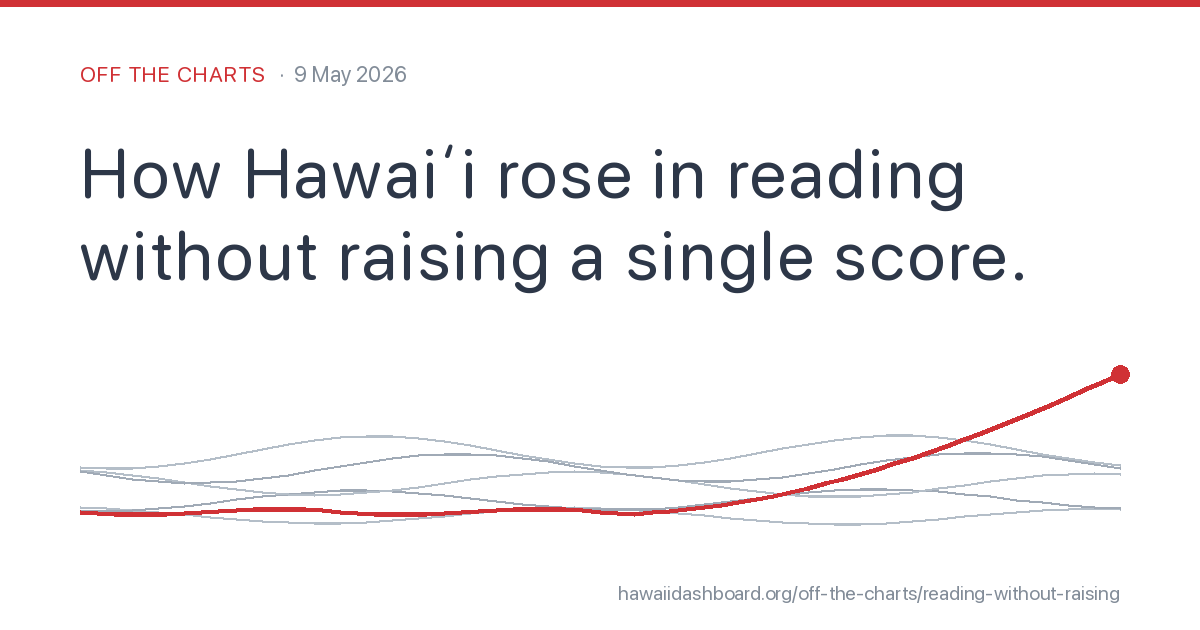
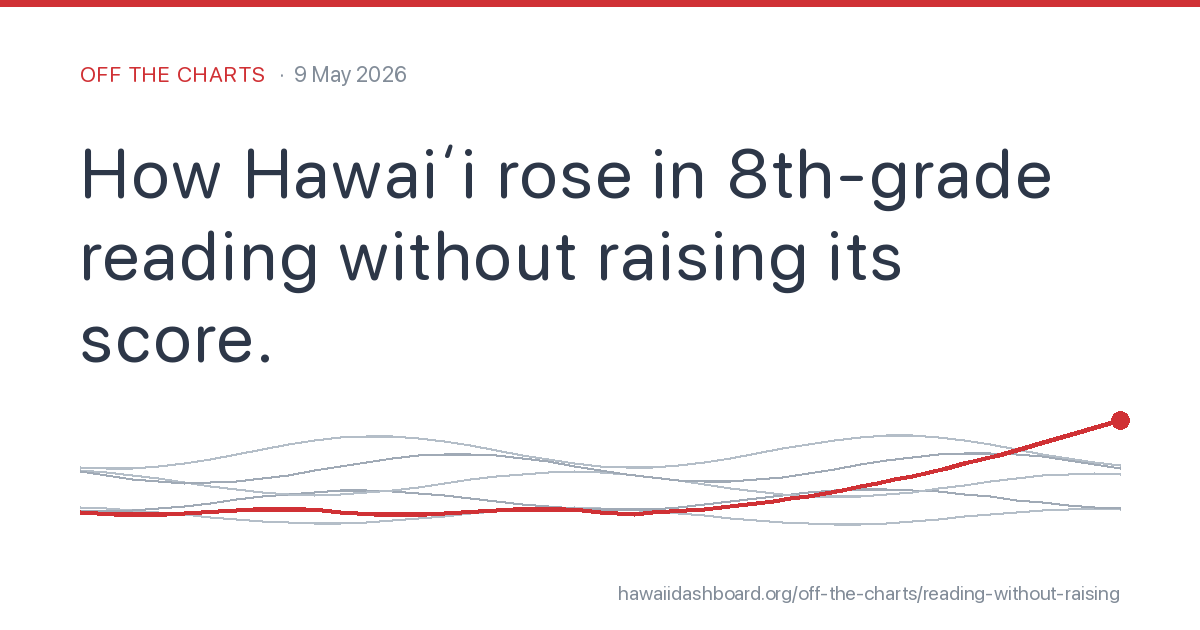
Off the Charts: rewrite reading-without-raising with sharper beats
User editorial pass. Title: "How Hawaiʻi rose in 8th-grade reading
without raising its score." (more specific than the original, drops
"a single"). Body restructured into shorter paragraph beats: the
mechanism reveal — "Hawaiʻi didn't surge. The country fell." — now
gets its own punch instead of being buried mid-paragraph. Closing
voice shifts to second-person address ("if you still think...").

Drops the pre-COVID-catch-up paragraph; the post now leans entirely
on the rank-rose-without-score-rose paradox + the COVID exception.
Three chart links preserved: rank chart on the opening claim, NCES
COVID source on "one of only three states," rank-history on "tied
with the US median."

Updated meta/OG/JSON-LD across the post page and the archive entry.
Regenerated the per-post OG card with the new title.

diff --git a/off-the-charts/reading-without-raising/index.html b/off-the-charts/reading-without-raising/index.html
@@ -3,12 +3,12 @@
 <head>
     <meta charset="UTF-8">
     <meta name="viewport" content="width=device-width, initial-scale=1.0">
-    <title>How Hawai&#x02BB;i rose in reading without raising a single score. | Off the Charts</title>
-    <meta name="description" content="Hawai&#x02BB;i&rsquo;s 8th-grade NAEP reading rank climbed from #45 to #26 while the score stayed flat. Forty-eight states&rsquo; scores fell; Hawai&#x02BB;i was one of only three that held steady through COVID.">
+    <title>How Hawai&#x02BB;i rose in 8th-grade reading without raising its score. | Off the Charts</title>
+    <meta name="description" content="Hawai&#x02BB;i&rsquo;s 8th-grade NAEP reading rank climbed from #45 to #26 while the score barely moved. The country fell to where Hawai&#x02BB;i was; Hawai&#x02BB;i was one of only three states whose score didn&rsquo;t fall during COVID.">
     <meta property="og:type" content="article">
     <meta property="og:url" content="https://hawaiidashboard.org/off-the-charts/reading-without-raising/">
-    <meta property="og:title" content="How Hawai&#x02BB;i rose in reading without raising a single score.">
-    <meta property="og:description" content="Hawai&#x02BB;i&rsquo;s 8th-grade NAEP reading rank climbed from #45 to #26 while the score stayed flat. Forty-eight states&rsquo; scores fell; Hawai&#x02BB;i was one of only three that held steady through COVID.">
+    <meta property="og:title" content="How Hawai&#x02BB;i rose in 8th-grade reading without raising its score.">
+    <meta property="og:description" content="Hawai&#x02BB;i&rsquo;s 8th-grade NAEP reading rank climbed from #45 to #26 while the score barely moved. The country fell to where Hawai&#x02BB;i was; Hawai&#x02BB;i was one of only three states whose score didn&rsquo;t fall during COVID.">
     <meta property="og:image" content="https://hawaiidashboard.org/assets/og/off-the-charts/reading-without-raising.png">
     <meta property="og:image:width" content="1200">
     <meta property="og:image:height" content="630">
@@ -16,8 +16,8 @@
     <meta property="article:published_time" content="2026-05-09">
     <meta property="article:section" content="Off the Charts">
     <meta name="twitter:card" content="summary_large_image">
-    <meta name="twitter:title" content="How Hawai&#x02BB;i rose in reading without raising a single score.">
-    <meta name="twitter:description" content="Hawai&#x02BB;i&rsquo;s 8th-grade NAEP reading rank climbed from #45 to #26 while the score stayed flat. Forty-eight states&rsquo; scores fell; Hawai&#x02BB;i was one of only three that held steady through COVID.">
+    <meta name="twitter:title" content="How Hawai&#x02BB;i rose in 8th-grade reading without raising its score.">
+    <meta name="twitter:description" content="Hawai&#x02BB;i&rsquo;s 8th-grade NAEP reading rank climbed from #45 to #26 while the score barely moved. The country fell to where Hawai&#x02BB;i was; Hawai&#x02BB;i was one of only three states whose score didn&rsquo;t fall during COVID.">
     <meta name="twitter:image" content="https://hawaiidashboard.org/assets/og/off-the-charts/reading-without-raising.png">
     <link rel="canonical" href="https://hawaiidashboard.org/off-the-charts/reading-without-raising/">
 
@@ -27,7 +27,7 @@
       "@context": "https://schema.org",
       "@type": "Article",
       "headline": "How Hawaiʻi rose in reading without raising a single score.",
-      "description": "Hawaiʻi's 8th-grade NAEP reading rank climbed from #45 to #26 while the score stayed flat. Forty-eight states' scores fell; Hawaiʻi was one of only three that held steady through COVID.",
+      "description": "Hawaiʻi's 8th-grade NAEP reading rank climbed from #45 to #26 while the score barely moved. The country fell to where Hawaiʻi was; Hawaiʻi was one of only three states whose score didn't fall during COVID.",
       "datePublished": "2026-05-09",
       "dateModified": "2026-05-09",
       "author": { "@type": "Organization", "name": "Hawaiʻi Dashboard" },
@@ -112,7 +112,7 @@
 
     <article class="otc-post">
         <p class="otc-post-date">9 May 2026</p>
-        <h1>How Hawai&#x02BB;i rose in reading without raising a single score.</h1>
+        <h1>How Hawai&#x02BB;i rose in 8th-grade reading without raising its score.</h1>
 
         <div class="otc-actions">
             <button type="button" class="share-btn"
@@ -122,17 +122,19 @@
 
         <p>Hawai&#x02BB;i&rsquo;s 8th-graders <a href="/r/naep_reading_8/">went from #45 to #26 on NAEP reading</a> between 2011 and 2024. A nineteen-spot climb.</p>
 
-        <p>The score? It moved 0.09 of a point. Statistically, it didn&rsquo;t move at all.</p>
+        <p>The score? It moved 0.09 points. Statistically, it didn&rsquo;t move at all.</p>
 
-        <p>So how did the rank rise? Forty-eight of fifty states&rsquo; scores fell, most by five to fifteen points. Only Hawai&#x02BB;i and Louisiana came out the other side without losing ground. Louisiana rose before COVID and fell during it; Hawai&#x02BB;i rose before COVID and held.</p>
+        <p>So how did the rank rise?</p>
 
-        <p>Pandemic learning loss hit the U.S. hard between 2019 and 2022. The median 8th-grader&rsquo;s reading score dropped 3.7 points in three years. Hawai&#x02BB;i was <a href="https://www.nationsreportcard.gov/highlights/reading/2022/">one of only three states</a> whose score didn&rsquo;t fall.</p>
+        <p>Because scores fell in 48 of 50 states, mostly by five to fifteen points. Hawai&#x02BB;i didn&rsquo;t surge. The country fell.</p>
 
-        <p>Pre-COVID, Hawai&#x02BB;i was already closing the gap. From 2003 to 2017, our score rose nearly ten points while the national median went nowhere. The pandemic <a href="/rh/naep_reading_8/">sealed the convergence</a>.</p>
+        <p>Only Hawai&#x02BB;i and Louisiana came out without losing ground. Louisiana rose before COVID and fell during it. Hawai&#x02BB;i just held steady.</p>
 
-        <p>By 2024, Hawai&#x02BB;i is exactly tied with the U.S. median for the first time.</p>
+        <p>That matters. Between 2019 and 2022, the median state&rsquo;s 8th-grade reading score dropped 3.7 points. Hawai&#x02BB;i was <a href="https://www.nationsreportcard.gov/highlights/reading/2022/">one of only three states</a> whose score didn&rsquo;t fall.</p>
 
-        <p>If your education planning still treats Hawai&#x02BB;i 8th-graders as &ldquo;behind&rdquo; the rest of the country, the math has changed.</p>
+        <p>By 2024, Hawai&#x02BB;i was <a href="/rh/naep_reading_8/">tied with the US median</a> for the first time.</p>
+
+        <p>So if you still think the Hawai&#x02BB;i 8th-grader&rsquo;s reading is clearly &ldquo;behind&rdquo; the rest of the country, the data has moved on.</p>
     </article>
 
     <p class="otc-back"><a href="/off-the-charts/">&larr; All Off the Charts posts</a></p>

diff --git a/off-the-charts/index.html b/off-the-charts/index.html
@@ -50,7 +50,7 @@
       "blogPost": [
         {
           "@type": "BlogPosting",
-          "headline": "How Hawaiʻi rose in reading without raising a single score.",
+          "headline": "How Hawaiʻi rose in 8th-grade reading without raising its score.",
           "url": "https://hawaiidashboard.org/off-the-charts/reading-without-raising/",
           "datePublished": "2026-05-09",
           "image": "https://hawaiidashboard.org/assets/og/off-the-charts/reading-without-raising.png"
@@ -140,8 +140,8 @@
 
         <article class="otc-archive-item" id="reading-without-raising">
             <p class="otc-archive-date">9 May 2026</p>
-            <h2><a href="/off-the-charts/reading-without-raising/">How Hawai&#x02BB;i rose in reading without raising a single score.</a></h2>
-            <p class="otc-dek">Hawai&#x02BB;i&rsquo;s 8th-grade NAEP reading rank climbed from #45 to #26 while the score stayed flat. Forty-eight states&rsquo; scores fell; Hawai&#x02BB;i was one of only three that held steady through COVID.</p>
+            <h2><a href="/off-the-charts/reading-without-raising/">How Hawai&#x02BB;i rose in 8th-grade reading without raising its score.</a></h2>
+            <p class="otc-dek">Hawai&#x02BB;i&rsquo;s 8th-grade NAEP reading rank climbed from #45 to #26 while the score barely moved. The country fell to where Hawai&#x02BB;i was; Hawai&#x02BB;i was one of only three states whose score didn&rsquo;t fall during COVID.</p>
             <p class="otc-read-more"><a href="/off-the-charts/reading-without-raising/">Read post &rarr;</a></p>
         </article>
 

diff --git a/scripts/generate-og-off-the-charts-posts.py b/scripts/generate-og-off-the-charts-posts.py
@@ -31,7 +31,7 @@ SLATE    = (56, 75, 91)
 POSTS = [
     {
         "slug": "reading-without-raising",
-        "title": "How Hawaiʻi rose in reading without raising a single score.",
+        "title": "How Hawaiʻi rose in 8th-grade reading without raising its score.",
         "date":  "9 May 2026",
         # The outlier line conveys: HI flat while the rest fall to meet it.
         "outlier": "high",
